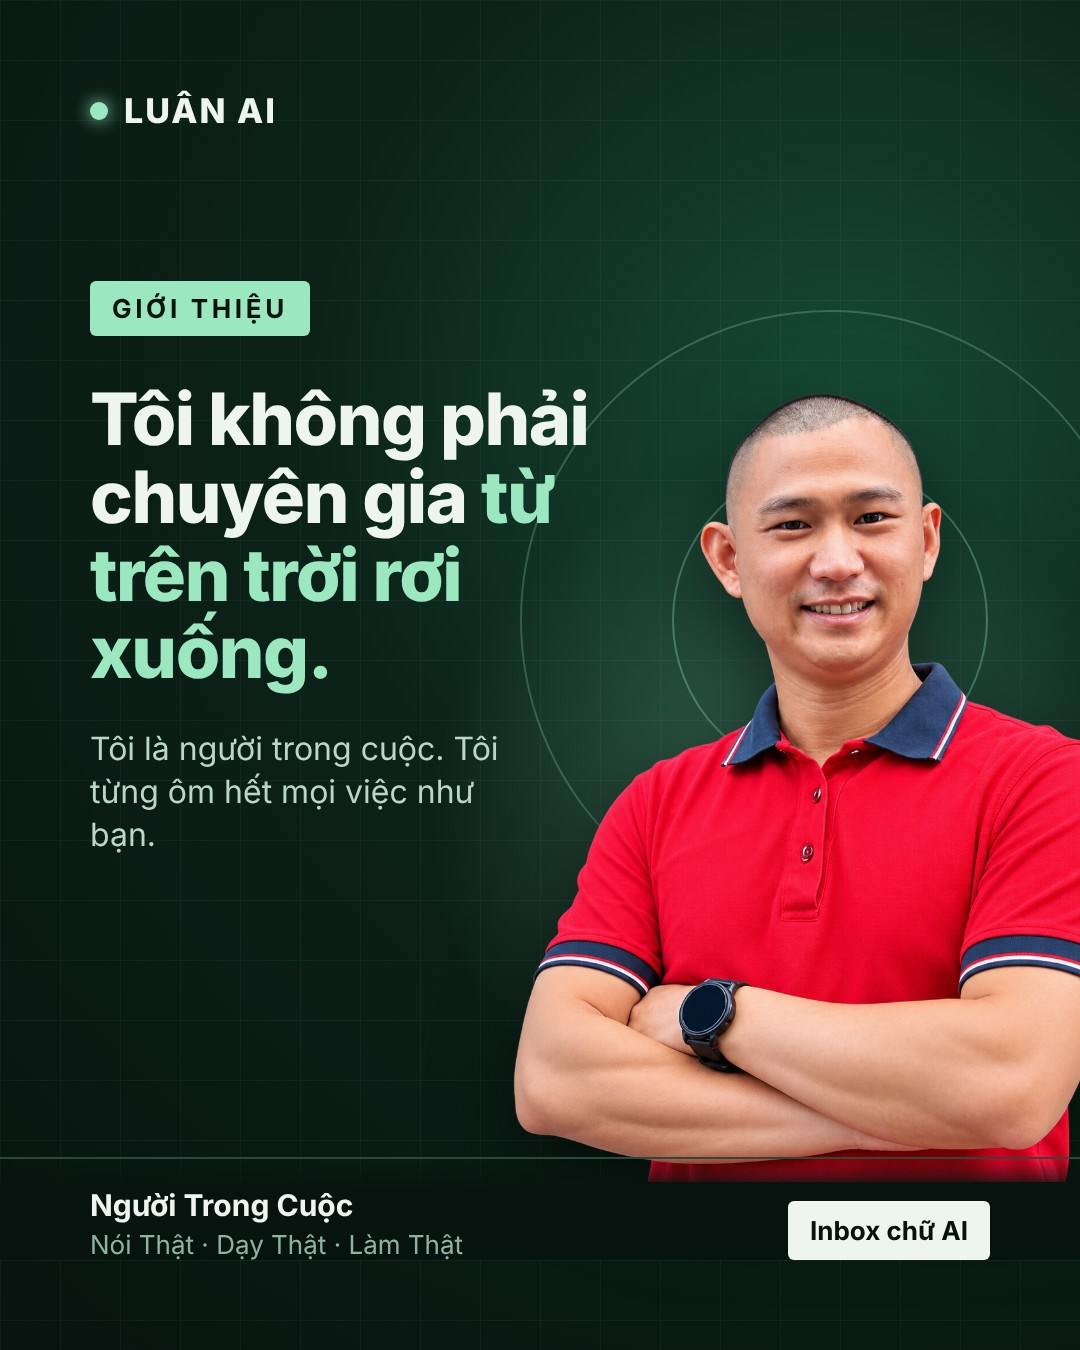
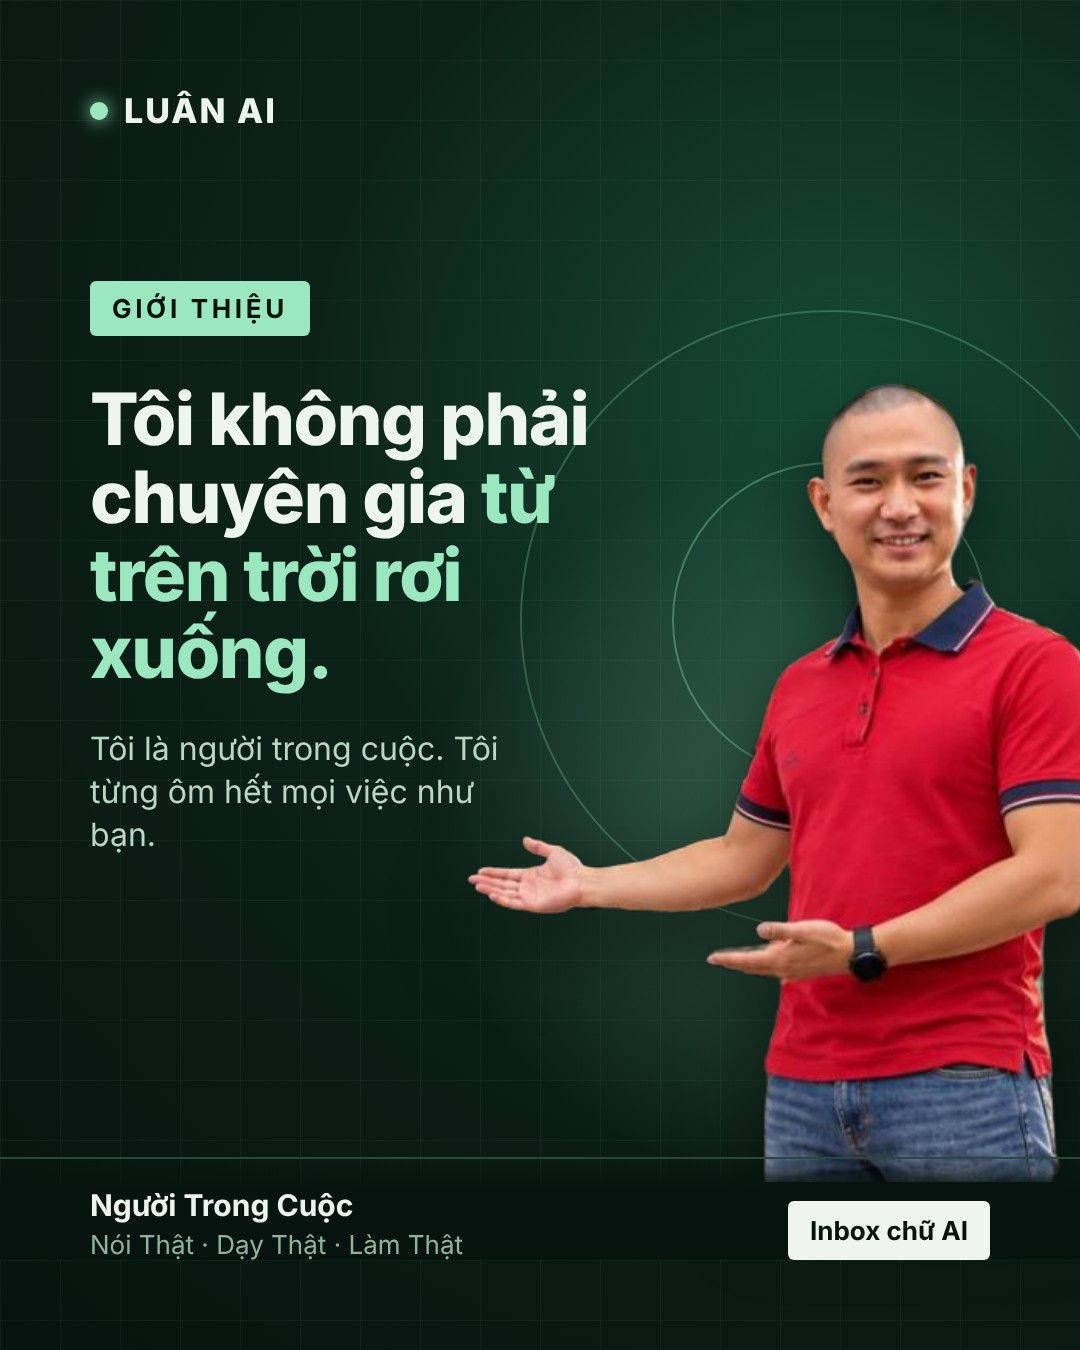
AAS L04: thu vien bieu cam (3 tu the tu ChatGPT) + mau anh nhan ma bieu cam
Claude-Session: https://claude.ai/code/session_017kgc1PsvuozpBwCxbyhjEB

Changed region(s): [[0.4278, 0.28, 1.0, 0.9022]]

diff --git a/aas/card.html b/aas/card.html
@@ -1,0 +1,31 @@
+<!doctype html><html><head><meta charset="utf-8"><style>
+*{margin:0;box-sizing:border-box}
+body{width:1080px;height:1350px;font-family:Inter,"DejaVu Sans",sans-serif;color:#eef5f0;overflow:hidden;
+background:radial-gradient(circle at 78% 30%,#174a36 0%,#0c2219 42%,#07130e 100%)}
+.grid{position:absolute;inset:0;background-image:linear-gradient(rgba(155,232,192,.05) 1px,transparent 1px),linear-gradient(90deg,rgba(155,232,192,.05) 1px,transparent 1px);background-size:60px 60px}
+.ring{position:absolute;right:-180px;top:560px;width:640px;height:640px;border-radius:50%;border:2px solid rgba(155,232,192,.25)}
+.ring:after{content:"";position:absolute;inset:150px;border-radius:50%;border:2px solid rgba(155,232,192,.35)}
+.dot{position:absolute;right:122px;top:862px;width:36px;height:36px;border-radius:50%;background:#9be8c0;box-shadow:0 0 40px #9be8c0}
+.num{position:absolute;right:60px;top:640px;font-size:420px;font-weight:900;color:rgba(155,232,192,.13);line-height:1}
+.wrap{position:absolute;inset:90px 90px 90px 90px;display:flex;z-index:1;flex-direction:column}
+.brand{display:flex;align-items:center;gap:16px;font-weight:800;font-size:34px;letter-spacing:.06em}
+.brand i{width:18px;height:18px;border-radius:50%;background:#9be8c0;box-shadow:0 0 18px #9be8c0}
+.tag{margin-top:150px;align-self:flex-start;font-weight:700;font-size:26px;letter-spacing:.14em;color:#06120c;background:#9be8c0;padding:12px 22px;border-radius:6px}
+h1{margin-top:44px;font-size:var(--fs,92px);line-height:1.08;font-weight:800;letter-spacing:-.02em;max-width:900px}
+h1 em{font-style:normal;color:#9be8c0}
+p{margin-top:36px;font-size:40px;line-height:1.35;color:#b9d6c6;max-width:860px}
+.foot{margin-top:auto;display:flex;justify-content:space-between;align-items:flex-end;border-top:2px solid rgba(155,232,192,.25);padding-top:28px;font-size:26px;color:#8fb3a1}
+.foot b{color:#eef5f0;font-size:30px;display:block;margin-bottom:6px}
+.cta{font-weight:700;color:#06120c;background:#eef5f0;padding:14px 22px;border-radius:6px;font-size:26px}
+.halo{position:absolute;right:-120px;bottom:120px;width:820px;height:820px;border-radius:50%;background:radial-gradient(circle,rgba(155,232,192,.28),rgba(155,232,192,0) 62%)}
+.ring{right:-60px!important;top:auto!important;bottom:420px;width:620px!important;height:620px!important}
+.me{position:absolute;right:-150px;bottom:168px;height:800px;width:800px;object-fit:contain;object-position:center bottom;filter:drop-shadow(0 30px 40px rgba(0,0,0,.55))}
+.num{right:auto!important;left:600px;top:120px!important;font-size:300px!important}
+h1{font-size:var(--fs,72px)!important;max-width:540px!important}
+p{font-size:32px!important;max-width:450px!important}
+.foot{position:relative;z-index:2;background:linear-gradient(transparent,#07130e 30%);margin-left:-90px;margin-right:-90px;padding-left:90px;padding-right:90px;padding-bottom:0}
+.wrap{z-index:1}
+</style></head><body><div class="grid"></div><div class="halo"></div><div class="ring"></div><img class="me" src="luan.png"><div class="num" id="num"></div>
+<div class="wrap"><div class="brand"><i></i>LUÂN AI</div><div class="tag" id="tag"></div><h1 id="h"></h1><p id="p"></p>
+<div class="foot"><div><b>Người Trong Cuộc</b>Nói Thật · Dạy Thật · Làm Thật</div><div class="cta">Inbox chữ AI</div></div></div>
+<script>const q=new URLSearchParams(location.search.slice(1));document.getElementById('tag').textContent=q.get('t');document.getElementById('h').innerHTML=q.get('h');document.getElementById('p').textContent=q.get('p');document.getElementById('num').textContent=q.get('n')||'';if(q.get('pose')){const m=document.querySelector('.me');m.onerror=()=>{m.onerror=null;m.src='luan.png'};m.onload=()=>{if(m.naturalWidth/m.naturalHeight>0.7&&m.naturalWidth/m.naturalHeight<0.95){m.style.right='-30px';m.style.objectPosition='right bottom'}};m.src='poses/luan-'+q.get('pose')+'.png'}if(q.get('fs'))document.body.style.setProperty('--fs',q.get('fs'))</script></body></html>

diff --git a/aas/render.js b/aas/render.js
@@ -1,0 +1,17 @@
+const {chromium}=require('playwright');
+const cards=[
+["GIỚI THIỆU","Tôi không phải chuyên gia <em>từ trên trời rơi xuống.</em>","Tôi là người trong cuộc. Tôi từng ôm hết mọi việc như bạn.",""],
+["5 BÍ QUYẾT","Doanh nghiệp <em>tự chạy</em> không phải câu quảng cáo.","5 bí quyết tôi học được từ những người làm AI Automation đi trước.","5"],
+["DỄ LÀM TRƯỚC","5 cách để doanh nghiệp <em>tự chạy</em>, có khách đều.","Không cần làm cả 5. Chọn 1 cách, làm trong tuần này.","5"],
+["AI CHĂM KHÁCH 24/7","11 giờ đêm. Khách nhắn. <em>Bạn đang ngủ.</em>","Bạn không cần thức 24 giờ. Bạn cần một hệ thống làm việc khi bạn nghỉ.",""],
+["CHATBOT AI","Tôi đã ngừng tự tay trả lời <em>từng tin nhắn.</em>","Không phải vì lười. Mà vì khách không nên phải chờ.",""],
+["5 MẸO NHANH","Doanh nghiệp <em>tự chạy</em> bằng AI.","Mẹo nào cũng làm được trong một buổi.","5"],
+["GIAO VIỆC CHO AI","Bạn không kiệt sức vì kinh doanh.","Bạn kiệt sức vì <em>ôm hết mọi việc</em> một mình.",""],
+["AI AUTOMATION","Lấy lại thời gian. <em>Không để lọt khách.</em>","Vì sao chủ doanh nghiệp nhỏ cài AI Automation.",""]];
+(async()=>{const b=await chromium.launch();const pg=await b.newPage({viewport:{width:1080,height:1350}});
+for(let i=0;i<cards.length;i++){const [t,h,p,n]=cards[i];const pose=['15','06','08','09','10','06','14','07'][i];const ps=p.replace(/<\/?em>/g,'');
+const hh=i==6?h+'<br><span style="font-size:.62em;line-height:1.25;display:inline-block;margin-top:18px;color:#9be8c0">Bạn kiệt sức vì ôm hết mọi việc một mình.</span>':h;
+const pp=i==6?'Hãy bắt đầu giao việc lặp lại cho AI.':ps;
+await pg.goto('file://'+process.cwd()+'/card.html?'+new URLSearchParams({t,h:hh,p:pp,n,pose}).toString());await pg.waitForTimeout(400);
+await pg.screenshot({path:`L04-2026-10-16-${i+1}.jpg`,type:'jpeg',quality:90});}
+await b.close()})();

diff --git a/aas/cutpose.py b/aas/cutpose.py
@@ -1,0 +1,18 @@
+# Usage: python3 -I cutpose.py raw/  -> poses/luan-XX.png (raw files named 01.jpg ... 20.png)
+import sys, os, re
+from rembg import remove, new_session
+from PIL import Image
+src = sys.argv[1]; out = os.path.join(os.path.dirname(os.path.abspath(__file__)), 'poses')
+s = new_session('isnet-general-use')
+for f in sorted(os.listdir(src)):
+    m = re.match(r'(\d{1,2})', f)
+    if not m: continue
+    code = m.group(1).zfill(2)
+    im = Image.open(os.path.join(src, f)).convert('RGB')
+    cut = remove(im, session=s, alpha_matting=True)
+    bb = cut.getchannel('A').point(lambda a: 255 if a > 20 else 0).getbbox()
+    cut = cut.crop(bb)
+    # normalise: 1254px tall like luan.png, keep aspect
+    r = 1254 / cut.height
+    cut = cut.resize((round(cut.width * r), 1254), Image.LANCZOS)
+    cut.save(os.path.join(out, f'luan-{code}.png')); print('ok', code, cut.size)
